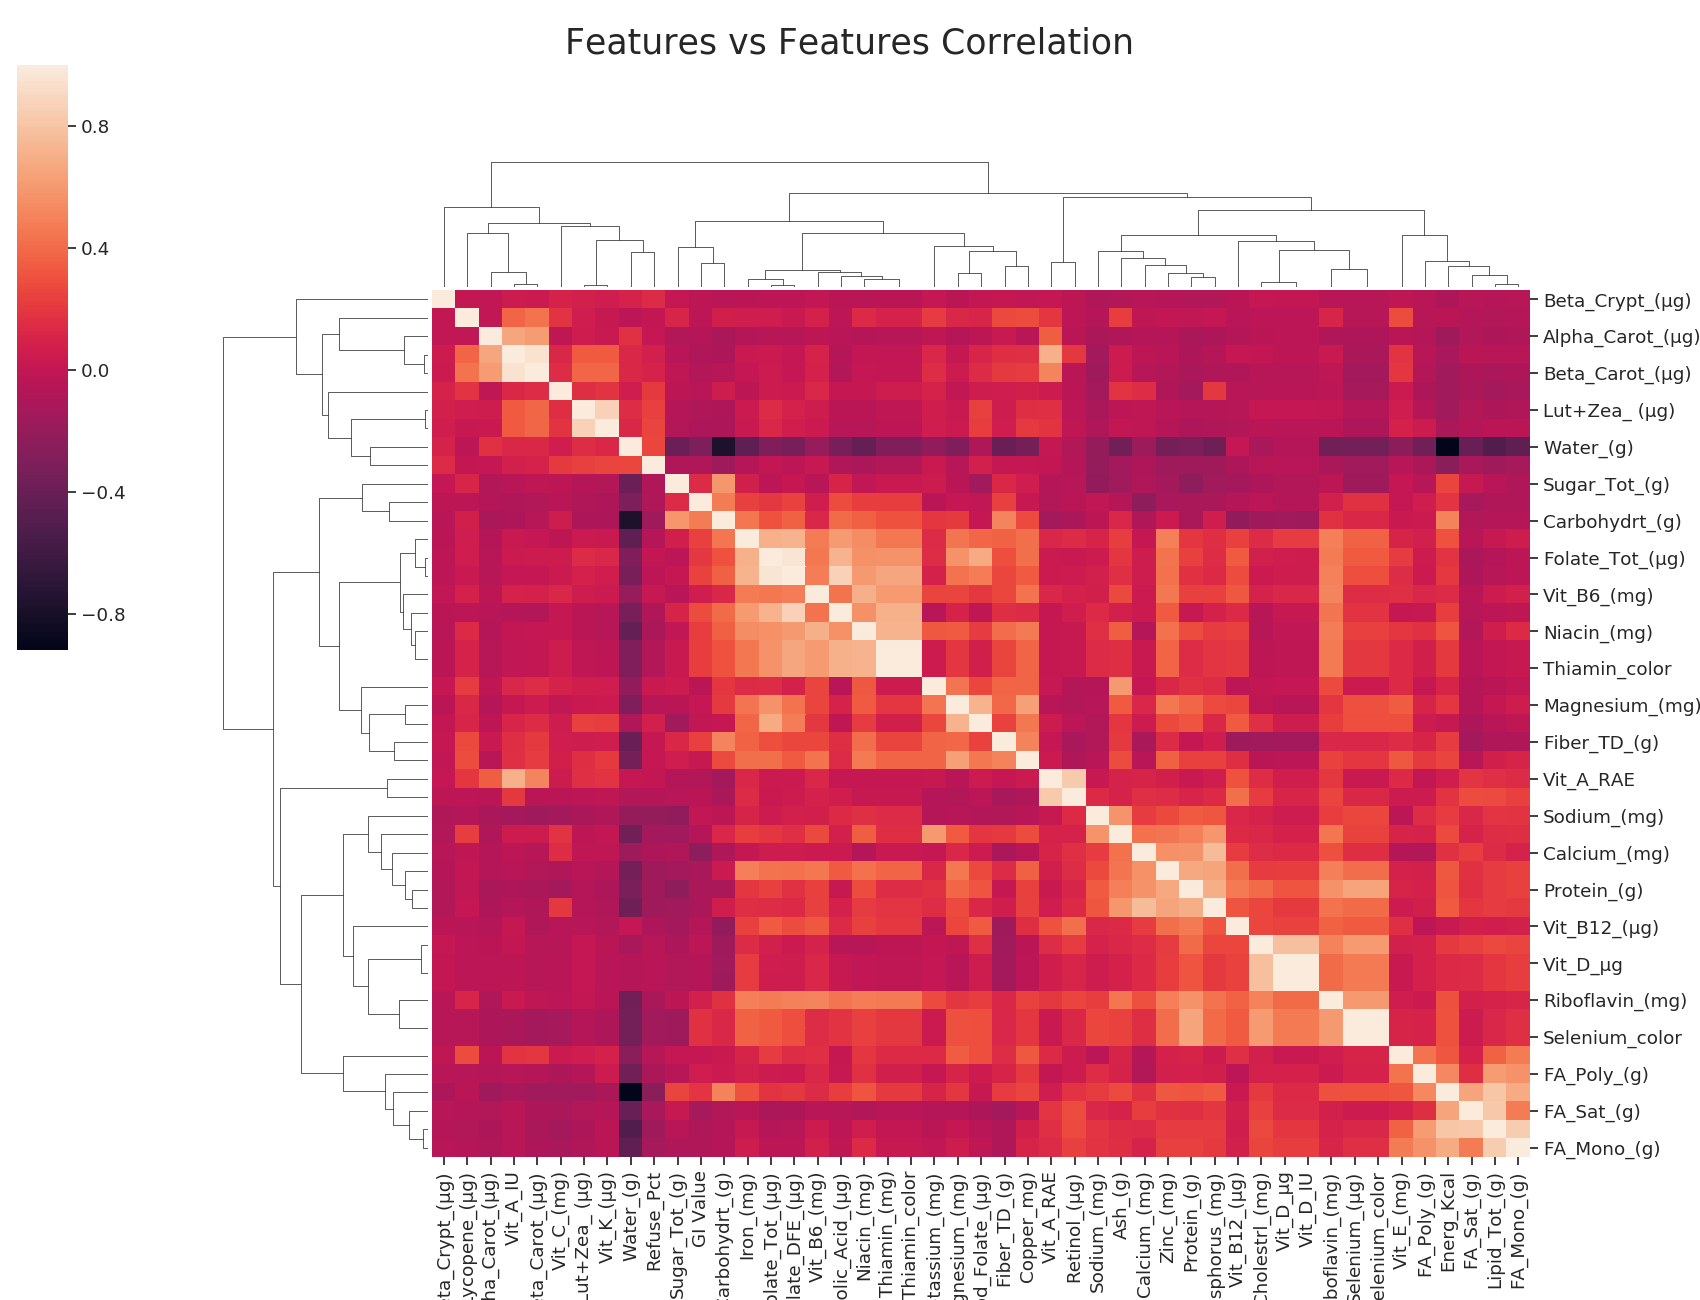
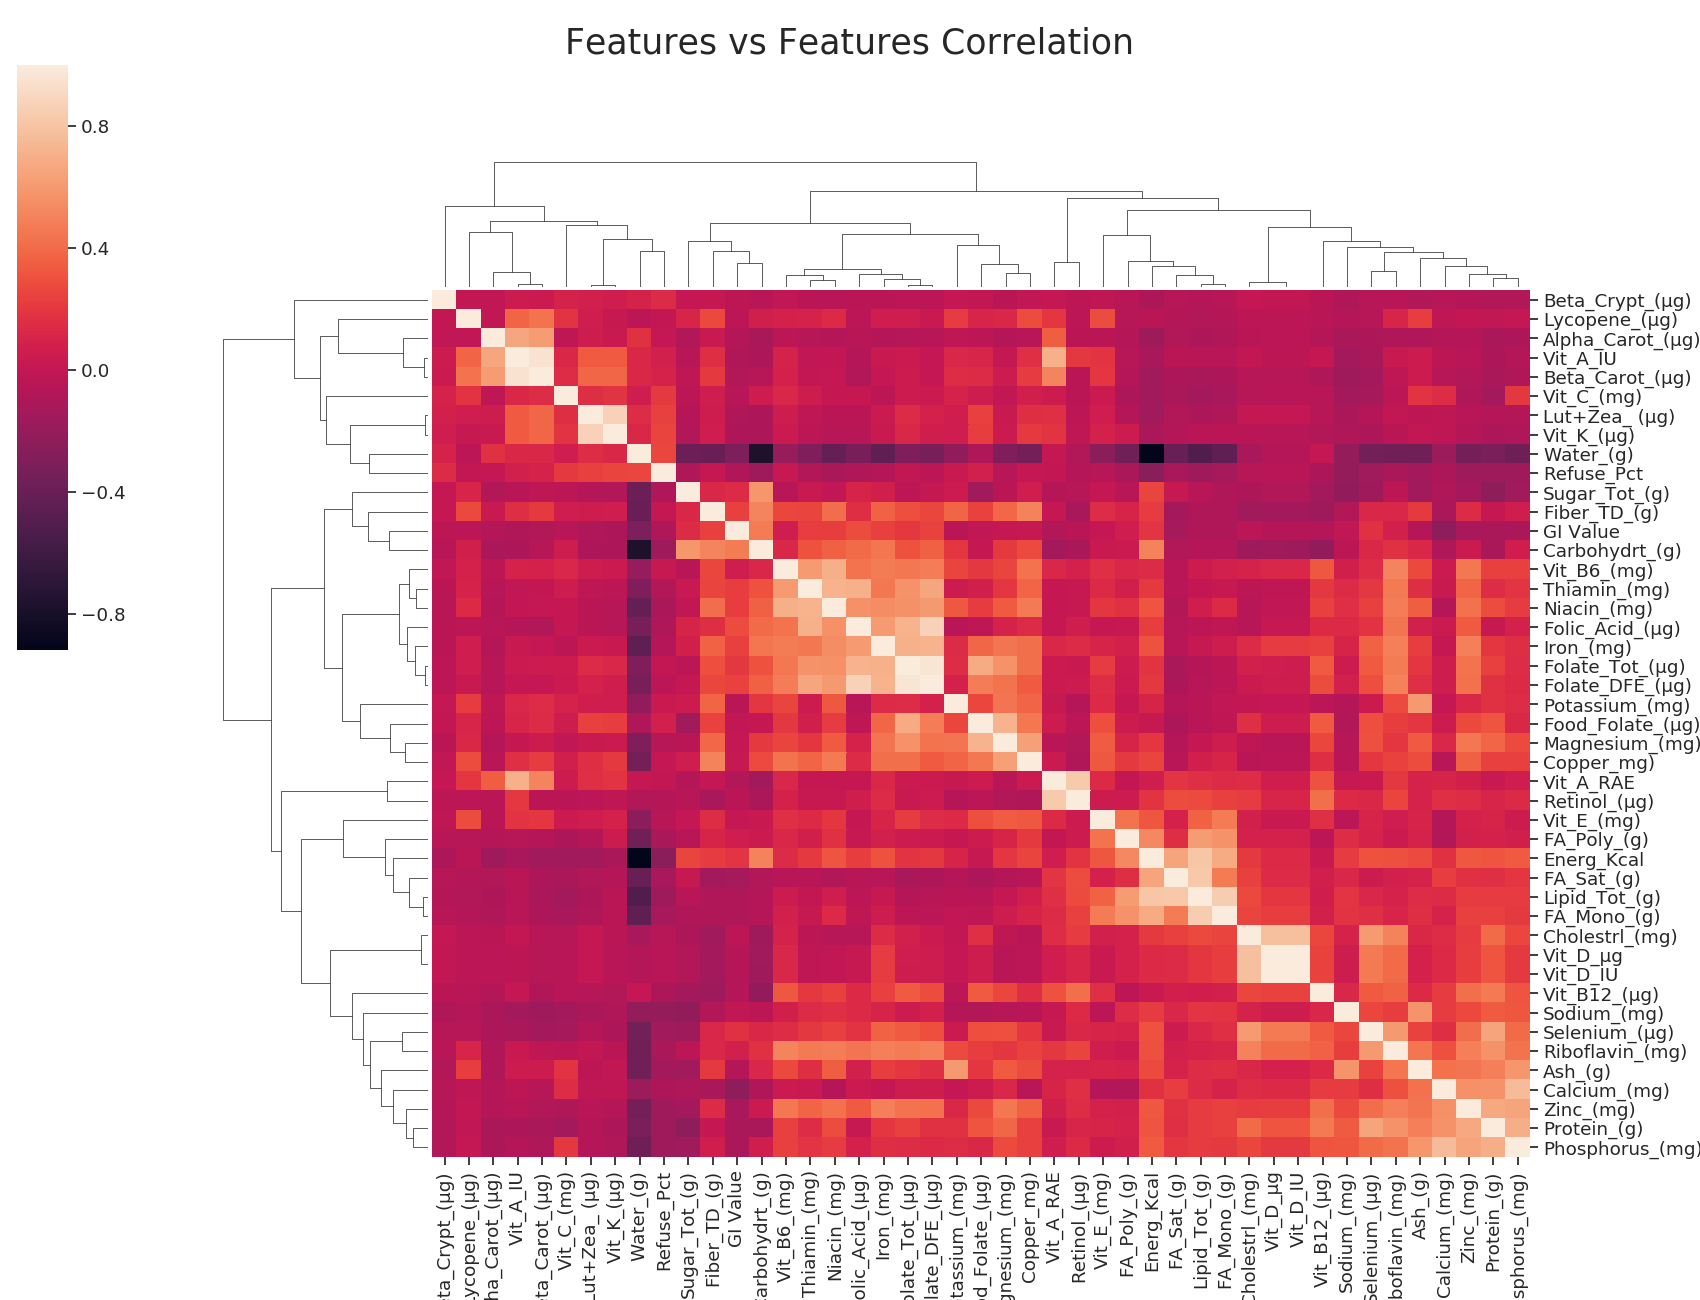
plot food vs food without small food groups

diff --git a/Plot_Graphs/food_vs_food.py b/Plot_Graphs/food_vs_food.py
@@ -7,28 +7,60 @@ from sklearn import preprocessing
 
 
 def plot_corr(gi_usda_df):
+    food_groups = pd.read_excel("GI_USDA_CLEAN_FOOD_GROUPS.xlsx")
+    species = food_groups.pop("FdGrp_desc")
+    species = pd.Series(species.unique())
+
+    gi_usda_df = pd.read_excel("GI_USDA_CLEAN_FOOD_GROUPS.xlsx")
+
+    gi_usda_df = gi_usda_df.drop(['CSFII 1994-96 Food Code',
+                                  'source table', 'NDB_No', 'reference food & time period', 'serve Size g',
+                                  'available cerbo hydrate', 'GL per serve', 'GI_2', 'acc', 'match-sent',
+                                  'GmWt_Desc2', 'GmWt_Desc1', 'Manganese_(mg)',
+                                  'GmWt_1', 'GmWt_2', 'Panto_Acid_mg)', 'Choline_Tot_ (mg)'],
+                                 axis='columns')
+
+    median_df = gi_usda_df.median(skipna=True, numeric_only=True)
+    for column in gi_usda_df:
+        if column == "Food Description in 1994-96 CSFII" or column == "FdGrp_desc":
+            continue
+        gi_usda_df[column] = gi_usda_df[column].fillna(median_df[column])
+
+    print(gi_usda_df.shape)
+
+    # remove small food groups from df
+    i = 0
+    while i < len(gi_usda_df['FdGrp_desc'].value_counts()):
+        if gi_usda_df['FdGrp_desc'].value_counts()[i] <= 10:
+            fg = gi_usda_df['FdGrp_desc'].value_counts().index[i]
+            gi_usda_df.drop(gi_usda_df[(gi_usda_df['FdGrp_desc'] == fg)].index, inplace=True)
+            # print(gi_usda_df.shape)
+            species = species[species != fg]
+        i += 1
+
+    groups = gi_usda_df.pop("FdGrp_desc")
+    # gi_usda_df = gi_usda_df.drop(['FdGrp_desc'], axis='columns')
     plt.cla()
     plt.clf()
 
     plt.figure(figsize=(20, 30))
     sns.set(font_scale=1.4)
-
     gi_usda_df.set_index(['Food Description in 1994-96 CSFII'], inplace=True)
-
     gi_usda_df = gi_usda_df.transpose()
-
+    print(gi_usda_df.shape)
     rows_corr = gi_usda_df.corr()
+    print(rows_corr.shape)
 
     rows_corr.reset_index(drop=True, inplace=True)
+
     rows_corr.to_csv("rows_correlation.csv")
 
-    os.chdir(os.getcwd()[:os.getcwd().index("Graphs & Photos")] + "Excel_files")
-    food_groups = pd.read_excel("GI_USDA_CLEAN_FOOD_GROUPS.xlsx")
+    # os.chdir(os.getcwd()[:os.getcwd().index("Graphs & Photos")] + "Excel_files")
 
-    species = food_groups.pop("FdGrp_desc")
+    x = species.unique()
     lut = dict(zip(species.unique(),
                    sns.hls_palette(len(set(species.unique())), l=0.5, s=0.8)))
-    row_colors = species.map(lut)
+    row_colors = groups.map(lut)
     g = sns.clustermap(rows_corr, row_colors=row_colors,
                        figsize=(18, 14), col_cluster=True,
                        metric="correlation")

diff --git a/Plot_Graphs/Main_Plots.py b/Plot_Graphs/Main_Plots.py
@@ -24,17 +24,17 @@ if __name__ == '__main__':
     # carbo vs gi by thiamin
     #############################
 
-    carbo_vs_GI.plot_corr(column_name='Thiamin_(mg)', color_col_name='Thiamin_color',
-              gi_usda_df=gi_usda_df, pic_name='carbo_vs_gi_by_thiamin',
-              title='Carbo vs Gi by Thiamin')
+    # carbo_vs_GI.plot_corr(column_name='Thiamin_(mg)', color_col_name='Thiamin_color',
+    #           gi_usda_df=gi_usda_df, pic_name='carbo_vs_gi_by_thiamin',
+    #           title='Carbo vs Gi by Thiamin')
 
     #############################
     # carbo vs gi by selenium
     #############################
 
-    carbo_vs_GI.plot_corr(column_name='Selenium_(µg)', color_col_name='Selenium_color',
-              gi_usda_df=gi_usda_df, pic_name='carbo_vs_gi_by_selenium',
-              title='Carbo vs Gi by Selenium', range=0.5)
+    # carbo_vs_GI.plot_corr(column_name='Selenium_(µg)', color_col_name='Selenium_color',
+    #           gi_usda_df=gi_usda_df, pic_name='carbo_vs_gi_by_selenium',
+    #           title='Carbo vs Gi by Selenium', range=0.5)
 
 
     #############################
